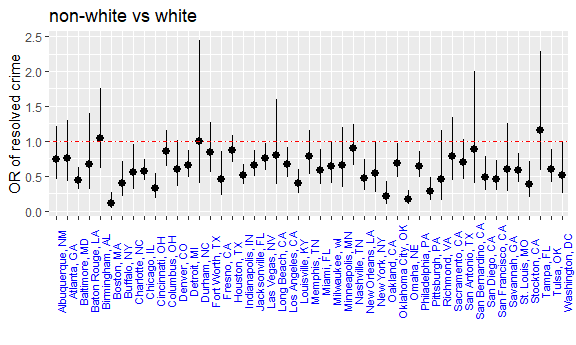
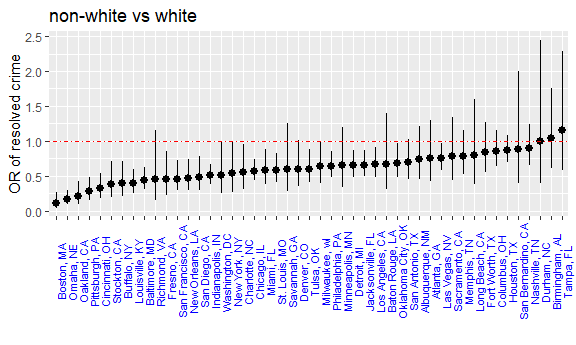
Finished

diff --git a/p8105_hw6_at2710.md b/p8105_hw6_at2710.md
@@ -72,6 +72,7 @@ glm_or_ci_function <- function(dat){
  ORs_df %>% 
    select(-data) %>% 
    unnest() %>% 
+   mutate(city_state = fct_reorder(city_state, OR)) %>%  
    ggplot(aes(x = city_state, y = OR)) +
    geom_pointrange(aes(ymin = conf.low, ymax = conf.high)) +
    geom_hline(yintercept = 1, linetype = "dotdash", 
@@ -82,7 +83,64 @@ glm_or_ci_function <- function(dat){
    theme(axis.text.x = element_text(color = "blue", size = 8, angle = 90))
 ```
 
-<img src="p8105_hw6_at2710_files/figure-markdown_github/unnamed-chunk-1-1.png" width="90%" /> Comment: The odds of solving crimes for non-white victims are lower in every city except Baton Rough, LA and Tampa, FL. However, the odds for those two cities are not statistically higher. On the other hand, a majority of cities has lower odds for solving cases for non-white vicitims with statistical significance such as Birmingham, AL, Baltimore, MD, Buffalo, NY and Tulsa, OK. Among the cities with dismal odds for non-white victims, Boston, MA seems to have worst odds for solving crimes if the victims are non-white.
+<img src="p8105_hw6_at2710_files/figure-markdown_github/unnamed-chunk-1-1.png" width="90%" />
+
+Comment: The odds of solving crimes for non-white victims are lower in every city except Durham, NC, Birminngham, AL and Tampa, FL. However, the odds for those three cities are not statistically higher. On the other hand, a majority of cities has lower odds for solving cases for non-white vicitims with statistical significance (here is the list)
+
+``` r
+ORs_df %>% 
+   select(-data) %>% 
+   unnest() %>% 
+  filter(conf.high < 1) %>% 
+  select(city_state) %>% 
+  kable()
+```
+
+| city\_state       |
+|:------------------|
+| Baltimore, MD     |
+| Boston, MA        |
+| Buffalo, NY       |
+| Charlotte, NC     |
+| Chicago, IL       |
+| Cincinnati, OH    |
+| Detroit, MI       |
+| Fresno, CA        |
+| Indianapolis, IN  |
+| Jacksonville, FL  |
+| Las Vegas, NV     |
+| Los Angeles, CA   |
+| Louisville, KY    |
+| Miami, FL         |
+| Milwaukee, wI     |
+| New Orleans, LA   |
+| New York, NY      |
+| Oakland, CA       |
+| Oklahoma City, OK |
+| Omaha, NE         |
+| Philadelphia, PA  |
+| Pittsburgh, PA    |
+| San Diego, CA     |
+| San Francisco, CA |
+| St. Louis, MO     |
+| Stockton, CA      |
+| Tulsa, OK         |
+| Washington, DC    |
+
+Among the cities with dismal odds for non-white victims, Boston, MA seems to have worst odds for solving crimes if the victims are non-white.
+
+``` r
+ORs_df %>% 
+  select(-data) %>% 
+  unnest() %>% 
+  arrange(OR) %>% 
+  slice(1)
+```
+
+    ## # A tibble: 1 x 5
+    ##   city_state term                    OR conf.low conf.high
+    ##   <chr>      <chr>                <dbl>    <dbl>     <dbl>
+    ## 1 Boston, MA victim_racenon-white 0.115   0.0425     0.259
 
 Problem 2
 ---------
@@ -106,7 +164,7 @@ dat <- read_csv('data/birthweight.csv') %>%
 
     ## See spec(...) for full column specifications.
 
-First I created a new smoking variable (binary) from `smoken` since the data is zero heavy and wouldn't make much sense to try to establish a linear relationship between `smoken` and the outcome. Next I checked the missingness in the dataset and it appear to contain no missing information.
+First I created a new smoking variable (binary) from `smoken` since the data is zero heavy and wouldn't make much sense to try to establish a linear relationship between `smoken` and the outcome. Next I checked the missingness in the dataset and it appeared to contain no missing information.
 
 I proposed a Lasso model to predict the birth weight since the algorithm takes care of predictors selection by regularizing the coefficient estimates of the predictors that are not predictive and also reduce the variance of the prediction. The method is data driven and therefore doesn't rely on any hypotheses.
 
@@ -157,7 +215,7 @@ lasso_mod <- glmnet(x_train, y_train, alpha = 1, lambda = best_cv)
 Modeling Process
 ----------------
 
-First I split the dataset into traing and test set with 80:20 allocation. Then using the training set, I came up with the optimal lambda (tuning parameter) which minimize the MSE using he cross-validation method. The best lamda derived is 1.3457781. and the model estimates are:
+First I split the dataset into traing and test set with 80:20 allocation. Then using the training set, I came up with the optimal lambda (tuning parameter) which minimize the MSE using the cross-validation method. The best lamda derived is 1.3457781. and the model estimates are:
 
 ``` r
 lasso_mod %>% tidy() %>% kable()
@@ -217,7 +275,7 @@ plot3 <- train_df %>% add_predictions(lin_interact_mod) %>%
 (plot2 + plot3) / plot1
 ```
 
-<img src="p8105_hw6_at2710_files/figure-markdown_github/unnamed-chunk-3-1.png" width="90%" />
+<img src="p8105_hw6_at2710_files/figure-markdown_github/unnamed-chunk-5-1.png" width="90%" />
 
 *Comment* on the Lasso plot: My Lasso case has some unrealistic predicted values which are negative (2 values). This didn't occur in the linear model cases. I also spotted outliers (the fist 4 observations to the left of the Lasso figure). The variability of residuals when the predicted value &gt; 2500 and &lt; 4000 is pretty constant. Meaning that we can be confident when our predicted values are between the said range.
 
@@ -236,7 +294,7 @@ lasso_mod_func <- function(train, test){
   x_test <- model.matrix(bwt ~ . -id, test)[, -1]
   y_test <- test$bwt
   predicted <- predict(lasso_mod, x_test)
-  rmse_lasso_mod <- sqrt((sum(predicted - y_test)^2)/length(y_test))
+  rmse_lasso_mod <- sqrt(sum((predicted - y_test)^2)/length(y_test))
   return(rmse_lasso_mod)
 }
 
@@ -253,9 +311,10 @@ cv_df %>%
   gather(key = model, value = rmse) %>% 
   mutate(model = str_replace(model, "rmse_", ""),
          model = fct_inorder(model)) %>% 
-  ggplot(aes(x = model, y = rmse)) + geom_violin()
+  ggplot(aes(x = model, y = rmse)) + geom_violin() +
+  ylab('RMSE') + xlab('')
 ```
 
-<img src="p8105_hw6_at2710_files/figure-markdown_github/unnamed-chunk-4-1.png" width="90%" />
+<img src="p8105_hw6_at2710_files/figure-markdown_github/unnamed-chunk-6-1.png" width="90%" />
 
-Comment of the violin figure
+My Lasso model performed better- with an average RMSE from the CV process 275- than the linear model with interaction terms (mean RMSE = 289) which in turn performed better than the linear model without the interaction term (mean RMSE = 334).
